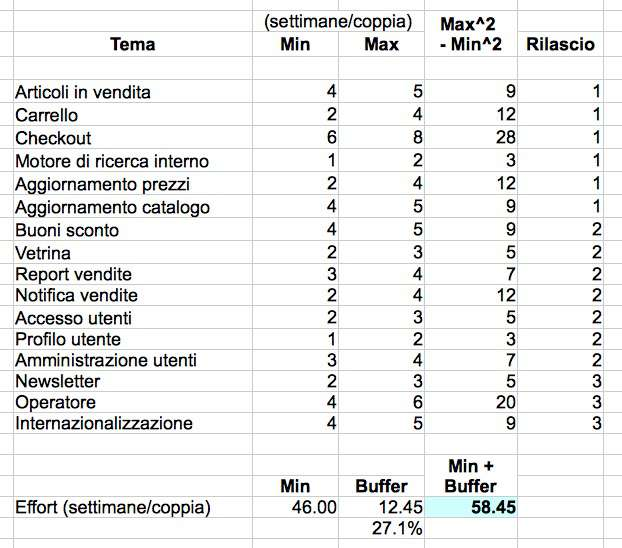
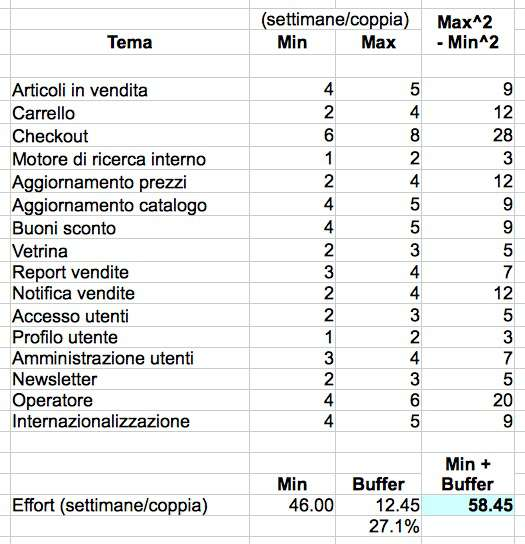
bigger effort table. added more early feedback to TODO

Changed region(s): [[0.0, 0.0, 1.0, 1.0]]

diff --git a/20121124-ExtremeProjectEvaluation/session.tex b/20121124-ExtremeProjectEvaluation/session.tex
@@ -236,8 +236,9 @@
 
 		   \end{column}
 		   \begin{column}{.5\textwidth}
-				\vspace*{-0.4cm}
-				\hspace*{-0.8cm} \includegraphics[scale=0.28]{images/effort} \\
+				\vspace*{-0.5cm}
+				\hspace*{-0.6cm} 
+				\includegraphics[scale=0.325]{images/effort} \\
 				\vspace*{0.2cm}
 				{\small $ \sigma = \sqrt[2] { \sum \left ( max^{2} - min^{2} \right ) } $} \\
 				{\scriptsize M.Cohn, Agile Estimating and Planning}
